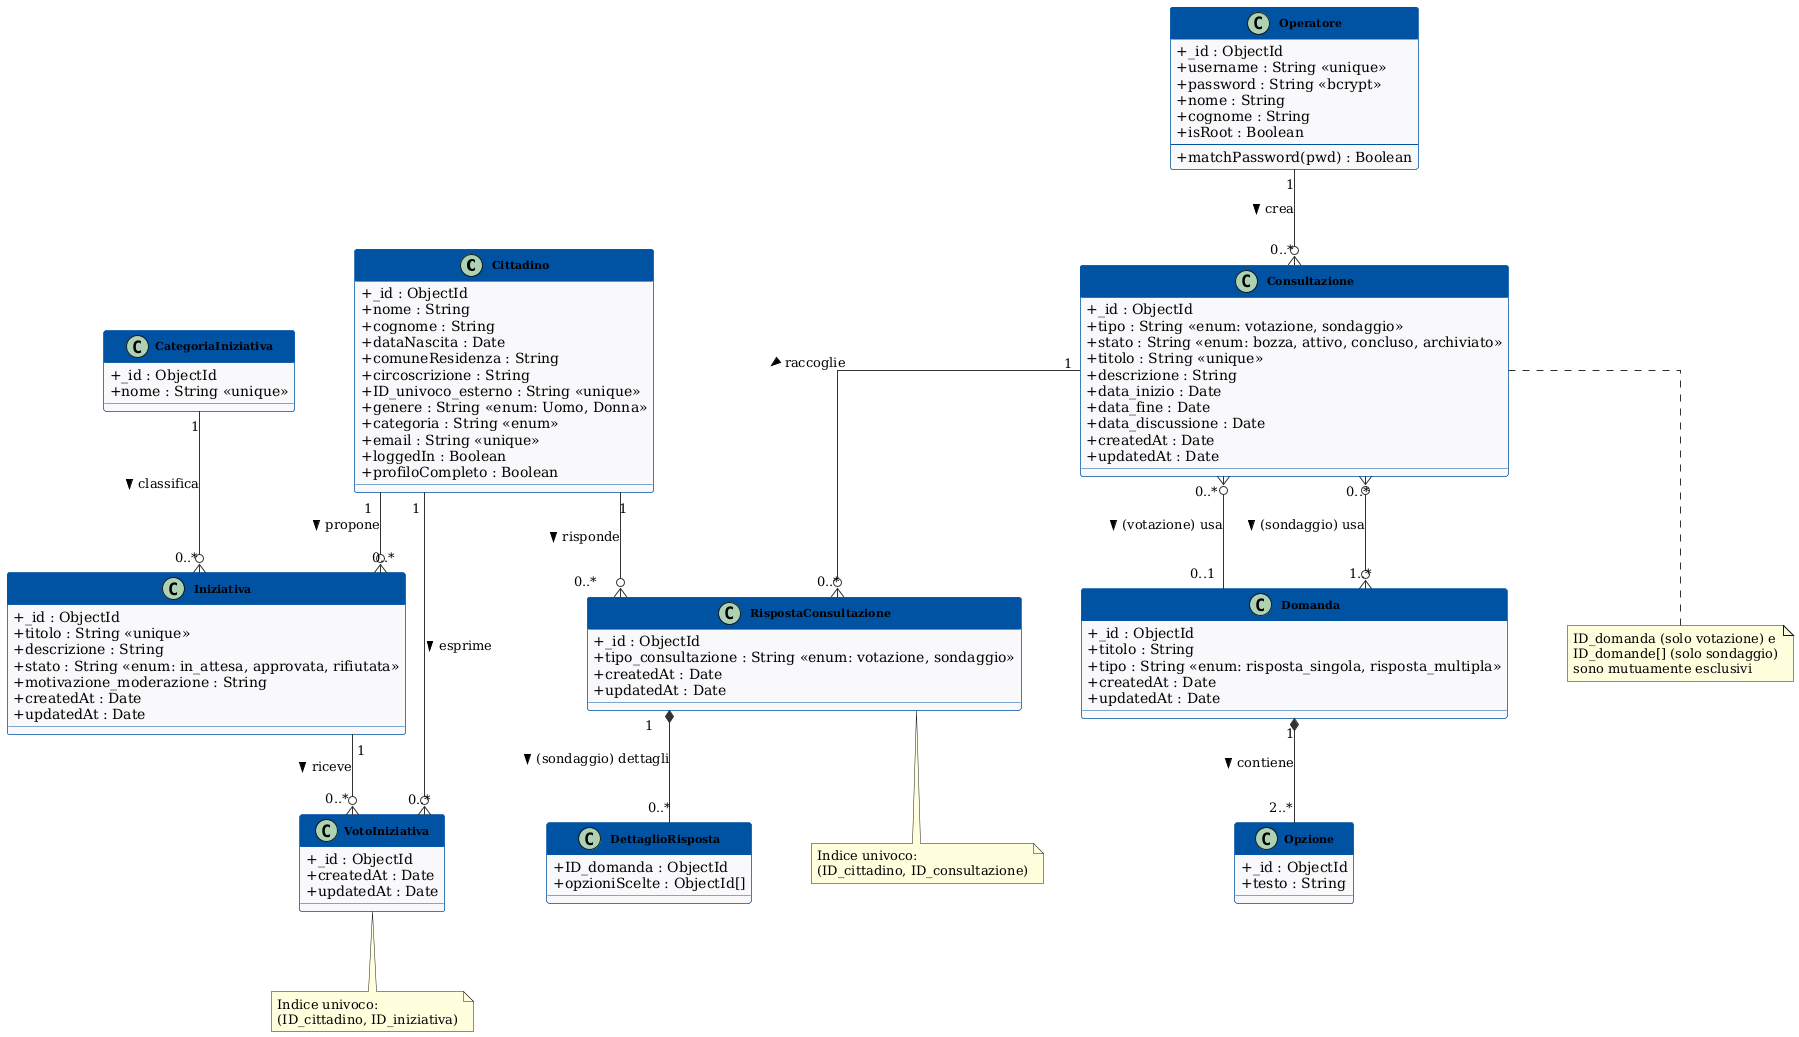
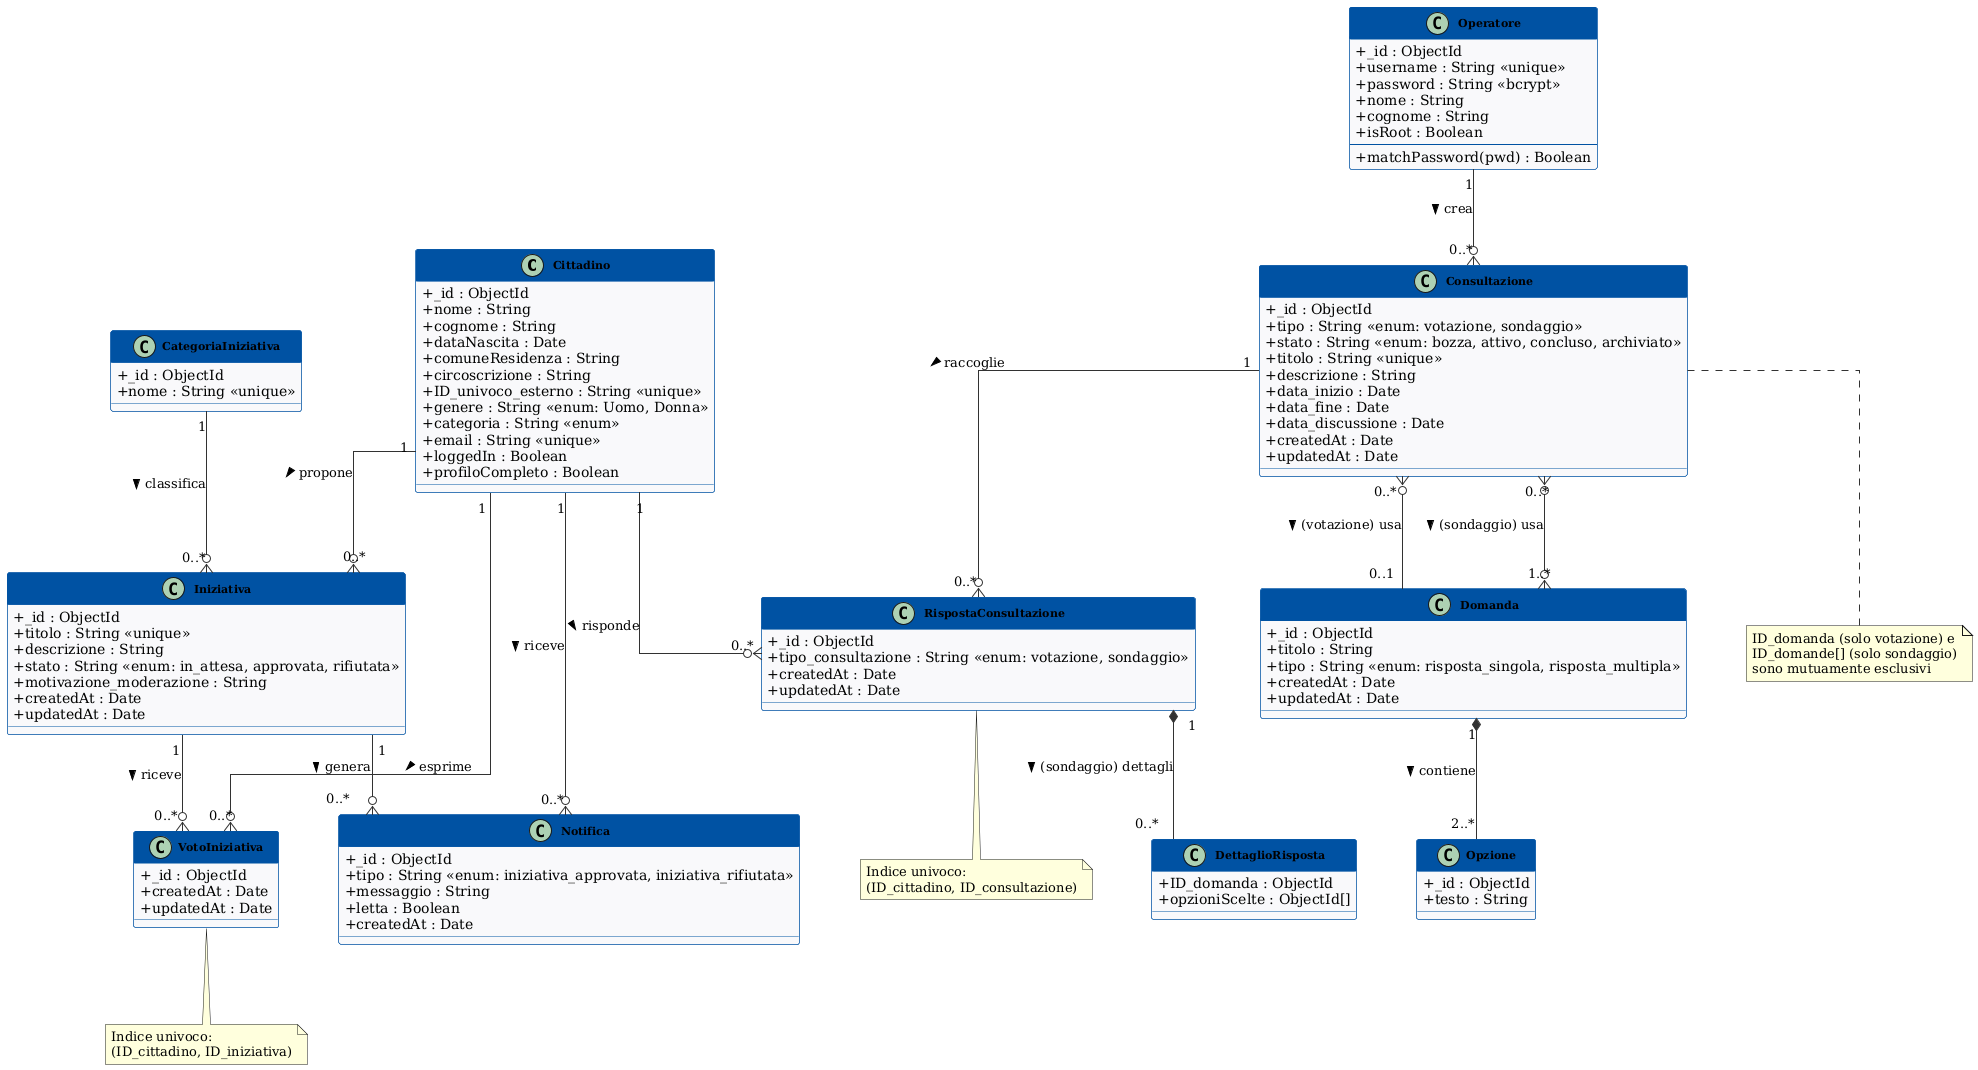
docs(D3): aggiungi CMP8 notifiche, classe Notifica e route /notifiche

diff --git a/deliverable_3/D3-IoSonoTrentoAnalisiProgettazione.tex b/deliverable_3/D3-IoSonoTrentoAnalisiProgettazione.tex
@@ -187,7 +187,8 @@ l'accesso sicuro alle risorse protette tramite il middleware \texttt{protect}.
 Il componente funge da strato di persistenza del sistema. Gestisce la connessione al database
 MongoDB e mette a disposizione degli altri componenti le operazioni CRUD sulle entità del dominio
 (\textit{Cittadino}, \textit{Operatore}, \textit{Consultazione}, \textit{Domanda},
-\textit{Iniziativa}, \textit{RispostaConsultazione}, \textit{VotoIniziativa}, \textit{Categoria}).
+\textit{Iniziativa}, \textit{RispostaConsultazione}, \textit{VotoIniziativa}, \textit{Categoria},
+\textit{Notifica}).
 Applica la validazione degli schemi Mongoose prima di ogni scrittura.
 
 \interfacciarichiesta{dati di registrazione operatore}\\
@@ -260,7 +261,8 @@ operatori al termine della consultazione.
 Il componente gestisce le iniziative civiche proposte dai cittadini. Un cittadino può creare
 un'iniziativa fornendo titolo, descrizione e categoria; gli altri cittadini possono sostenerla con
 un voto. Gli operatori moderano le iniziative, portandole dallo stato \texttt{in\_attesa} a
-\texttt{approvata} o \texttt{rifiutata} con una motivazione.
+\texttt{approvata} o \texttt{rifiutata} con una motivazione. Al termine della moderazione, il
+componente delega a \textit{CMP8} la creazione della notifica per il cittadino proponente.
 
 \interfacciarichiesta{autenticazione}\\
 JWT valido; il componente verifica il ruolo per decidere quali operazioni sono consentite.
@@ -349,8 +351,38 @@ Interrogazione periodica al database per recuperare le consultazioni in stato \t
 \texttt{attivo} che soddisfano i criteri di transizione.
 
 \interfacciafornita{aggiornamento stato consultazione}\\
-Scrittura del nuovo stato nel database; il componente non notifica direttamente gli utenti
-(funzionalità di notifica non inclusa nella versione corrente).
+Scrittura del nuovo stato nel database.
+
+% ····················································
+\subsubsection*{CMP8: Sistema di notifiche}
+\addcontentsline{toc}{subsubsection}{CMP8: Sistema di notifiche}
+
+\textbf{Descrizione:}\\
+Il componente gestisce le notifiche in-app destinate ai cittadini. Attualmente le notifiche vengono
+generate automaticamente dal componente \textit{CMP4 Gestione Iniziative} al termine della
+moderazione: il cittadino proponente riceve una notifica quando la propria iniziativa viene
+\texttt{approvata} o \texttt{rifiutata}. Il componente espone API per recuperare le notifiche,
+segnarle come lette singolarmente o tutte insieme. Il frontend effettua polling ogni 2 minuti
+per aggiornare il contatore delle notifiche non lette nella topbar.
+
+\interfacciarichiesta{evento di moderazione}\\
+Segnale proveniente da \textit{CMP4} al termine della \texttt{PATCH /iniziative/:id/modera}:
+contiene lo stato assegnato (\texttt{approvata} | \texttt{rifiutata}), la motivazione e
+l'identificativo del cittadino destinatario.
+
+\interfacciarichiesta{autenticazione}\\
+JWT valido con ruolo \texttt{cittadino}; ogni cittadino può leggere e gestire solo le proprie
+notifiche.
+
+\interfacciafornita{lista notifiche}\\
+Elenco delle notifiche del cittadino autenticato, ordinate dalla più recente, con il campo
+\texttt{letta} per distinguere le notifiche nuove da quelle già viste
+(\texttt{GET /notifiche}).
+
+\interfacciafornita{conferma lettura}\\
+Aggiornamento del flag \texttt{letta} a \texttt{true} per una singola notifica
+(\texttt{PATCH /notifiche/:id/letta}) o per tutte quelle non lette
+(\texttt{PATCH /notifiche/leggi-tutte}).
 
 % ────────────────────────────────────────────────────────────────────────────
 \subsection{Diagramma dei componenti}
@@ -590,6 +622,30 @@ La \textit{Categoria Iniziativa} è una tassonomia tematica usata per classifica
 \end{itemize}
 
 % ────────────────────────────────────────────────────────────────────────────
+\subsection*{9. Notifica}
+\addcontentsline{toc}{subsection}{9. Notifica}
+
+La \textit{Notifica} rappresenta un messaggio in-app generato automaticamente dal sistema e
+destinato a un cittadino. Attualmente viene creata alla moderazione di un'iniziativa per
+informare il proponente dell'esito (\texttt{approvata} o \texttt{rifiutata}).
+
+\begin{figure}[H]
+  \centering
+      \includegraphics[width=0.7\textwidth]{diagrams/Notifica.png}
+  \caption{Classe Notifica}
+\end{figure}
+
+\noindent\textbf{Attributi principali:}
+\begin{itemize}
+  \item \texttt{ID\_destinatario}: riferimento al cittadino destinatario
+  \item \texttt{tipo}: \texttt{iniziativa\_approvata} | \texttt{iniziativa\_rifiutata}
+  \item \texttt{messaggio}: testo della notifica generato automaticamente
+  \item \texttt{ID\_iniziativa}: riferimento all'iniziativa a cui si riferisce la notifica
+  \item \texttt{letta}: booleano, \texttt{false} alla creazione; portato a \texttt{true}
+        quando il cittadino apre il pannello notifiche
+\end{itemize}
+
+% ────────────────────────────────────────────────────────────────────────────
 \subsection{Diagramma delle classi complessivo}
 
 Viene riportato di seguito il diagramma delle classi complessivo che mostra le relazioni tra
@@ -668,6 +724,11 @@ endpoint. Di seguito viene riportata la mappatura tra classi/metodi e route HTTP
   % Categorie
   Categoria.list() & GET & /categorie \\
   Categoria.create() & POST & /categorie \\
+  \addlinespace
+  % Notifiche
+  Notifica.list() & GET & /notifiche \\
+  Notifica.marcaLetta() & PATCH & /notifiche/:id/letta \\
+  Notifica.marcaTutteLette() & PATCH & /notifiche/leggi-tutte \\
 
 \end{longtable}
 